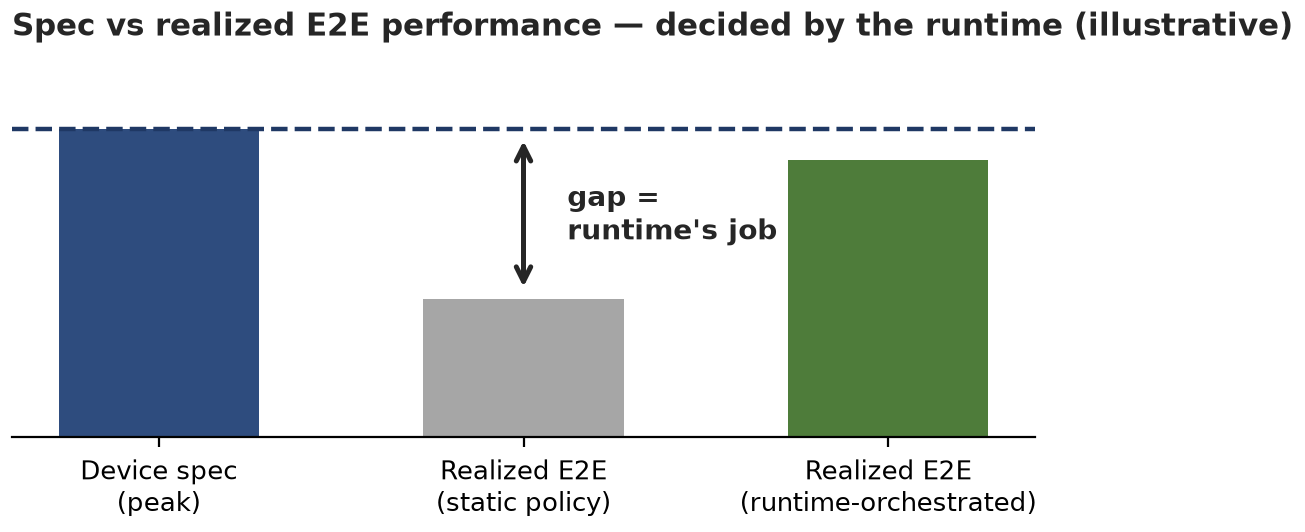
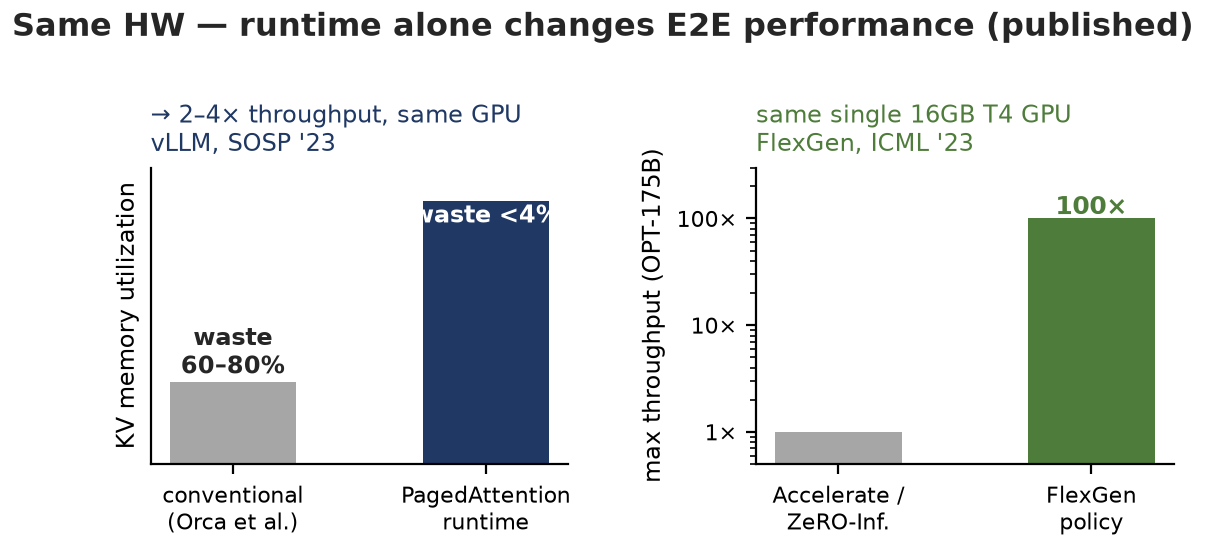
Replace illustrative gap chart with published same-HW evidence
③ '승부처의 이동: HW→런타임'의 두 번째 근거를 일러스트에서 공개
실측치 기반 2-panel 차트로 교체:
- vLLM (SOSP'23, arXiv:2309.06180): 동일 GPU에서 런타임 교체만으로
  KV cache 낭비 60-80% → <4%, 처리량 2-4x (동일 latency)
- FlexGen (ICML'23, arXiv:2303.06865): 동일 16GB T4에서 offloading
  정책에 따라 OPT-175B 최대 처리량 100x 차이

슬라이드 텍스트도 출처를 명시하도록 갱신.

Claude-Session: https://claude.ai/code/session_01SAvMt6HX1GPpX8DbB6n1c9

diff --git a/docs/mcr_background_2p.build.js b/docs/mcr_background_2p.build.js
@@ -24,7 +24,7 @@ A.pageColumns(pptx, {
     ]},
     { header: "③ 승부처의 이동: HW → 런타임", items: [
       { text: "해법이 만든 결정 문제: 연산 배치 × 데이터 배치가 결합 — tier·디바이스 늘수록 조합 폭증, 오결정 시 baseline보다 악화", image: img("bg_decision.png") },
-      { text: "스펙과 응용 E2E 성능의 gap은 런타임이 결정 — 기존 스택(vLLM)은 'KV=HBM' 가정, 이 계층 부재", image: img("bg_gap.png") },
+      { text: "실증: 동일 HW에서 런타임 교체만으로 KV 낭비 60–80%→<4%·처리량 2–4×(vLLM, SOSP'23), offloading 정책 따라 최대 100×(FlexGen, ICML'23)", image: img("bg_gap.png") },
     ]},
   ],
 });

diff --git a/docs/mcr_assets/make_assets.py b/docs/mcr_assets/make_assets.py
@@ -154,21 +154,29 @@ def bg_decision():
             ha="center",fontsize=10.5,color=GRAY,fontweight="bold")
     save(fig,"bg_decision.png",6.6,2.4)
 
-# 12. Spec vs realized E2E gap — the runtime decides it (illustrative)
+# 12. Same HW, runtime swap changes E2E performance — published results
+#     vLLM (SOSP'23, arXiv:2309.06180): KV waste 60-80% -> <4%, throughput 2-4x @ same latency, same GPU
+#     FlexGen (ICML'23, arXiv:2303.06865): same 16GB T4, offloading policy -> up to 100x max throughput
 def bg_gap():
-    fig, ax = plt.subplots()
-    vals=[1.0,0.45,0.9]; cols=[NAVYL,GRAY,GREEN]
-    labs=["Device spec\n(peak)","Realized E2E\n(static policy)","Realized E2E\n(runtime-orchestrated)"]
-    ax.bar(range(3),vals,color=cols,width=0.55)
-    ax.axhline(1.0,ls="--",color=NAVY,lw=1.6)
-    ax.annotate("",xy=(1,0.98),xytext=(1,0.47),arrowprops=dict(arrowstyle="<->",color=INK,lw=1.8))
-    ax.text(1.12,0.72,"gap =\nruntime's job",fontsize=10,color=INK,fontweight="bold",va="center")
-    ax.set_xticks(range(3)); ax.set_xticklabels(labs,fontsize=9.5)
-    ax.set_ylim(0,1.25); ax.set_yticks([])
-    ax.set_title("Spec vs realized E2E performance — decided by the runtime (illustrative)",
-                 fontsize=11,color=INK,fontweight="bold",loc="left")
-    for s in ["top","right","left"]: ax.spines[s].set_visible(False)
-    save(fig,"bg_gap.png",6.6,2.5)
+    fig,(a1,a2) = plt.subplots(1,2)
+    fig.suptitle("Same HW — runtime alone changes E2E performance (published)",
+                 fontsize=11.5,color=INK,fontweight="bold",x=0.02,ha="left")
+    a1.bar([0,1],[30,96],color=[GRAY,NAVY],width=0.5)
+    a1.text(0,33,"waste\n60–80%",ha="center",fontsize=8.5,color=INK,fontweight="bold")
+    a1.text(1,88,"waste <4%",ha="center",fontsize=8.5,color="white",fontweight="bold")
+    a1.set_xticks([0,1]); a1.set_xticklabels(["conventional\n(Orca et al.)","PagedAttention\nruntime"],fontsize=8)
+    a1.set_ylim(0,108); a1.set_yticks([]); a1.set_ylabel("KV memory utilization",fontsize=8.5)
+    a1.set_title("→ 2–4× throughput, same GPU\nvLLM, SOSP '23",fontsize=8.5,color=NAVY,loc="left")
+    a2.bar([0,1],[1,100],color=[GRAY,GREEN],width=0.5)
+    a2.set_yscale("log"); a2.set_ylim(0.5,300); a2.set_yticks([1,10,100]); a2.set_yticklabels(["1×","10×","100×"],fontsize=8)
+    a2.text(1,110,"100×",ha="center",fontsize=9,color=GREEN,fontweight="bold")
+    a2.set_xticks([0,1]); a2.set_xticklabels(["Accelerate /\nZeRO-Inf.","FlexGen\npolicy"],fontsize=8)
+    a2.set_ylabel("max throughput (OPT-175B)",fontsize=8.5)
+    a2.set_title("same single 16GB T4 GPU\nFlexGen, ICML '23",fontsize=8.5,color=GREEN,loc="left")
+    for a in (a1,a2):
+        for s in ["top","right"]: a.spines[s].set_visible(False)
+    fig.subplots_adjust(wspace=0.45,top=0.68)
+    save(fig,"bg_gap.png",6.6,2.6)
 
 # 13. Missing realization layer between app and devices
 def nec_missing():